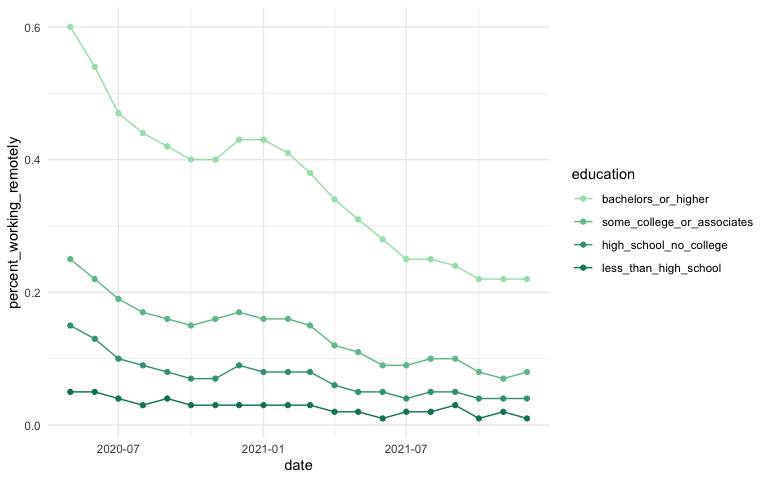
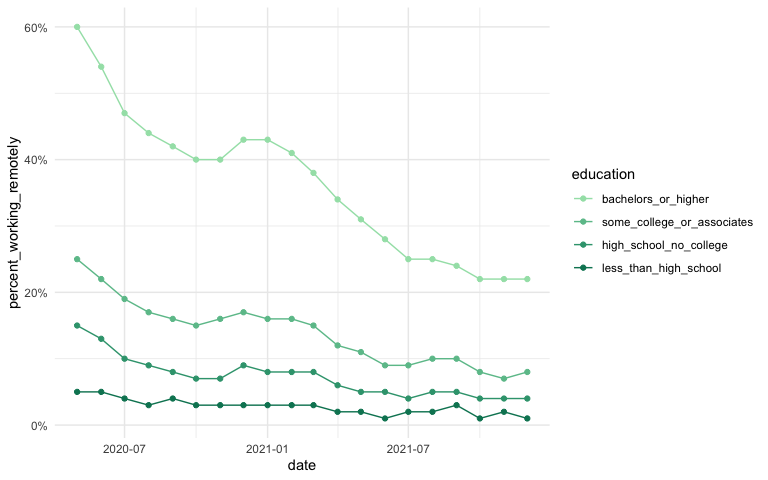
Add scales in README

diff --git a/README.md b/README.md
@@ -38,6 +38,7 @@ ggplot(cori_education,
   geom_line() +
   geom_point() +
   scale_color_cori(guide = guide_legend(reverse = TRUE)) +
+  scale_y_continuous(labels = scales::percent) +
   theme_minimal()
 ```
 
